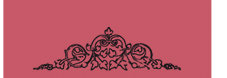
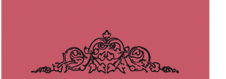
work in progress

Changed region(s): [[0.1239, 0.3333, 0.8053, 0.9487], [0.8982, 0.0, 0.9602, 1.0], [0.0, 0.0, 0.031, 1.0]]

diff --git a/delhaye/skin/frontend/delhaye/default/css/styles.css b/delhaye/skin/frontend/delhaye/default/css/styles.css
@@ -109,8 +109,8 @@ ul,ol         { list-style:none; }
 .main-left { }
 .main-right { }
 .main-top { min-height:194px; background:url(../images/home/top.png) repeat-x ; }
-.main-top-left { width:283px; height:194px; background: url(../images/home/top-left-corner.png); float:left; margin-left:-19px;}
-.main-top-right { width:231px; height:194px; background: url(../images/home/right.png); float:right; margin-right:-5px;}
+.main-top-left { width:175px; height:184px; background: url(../images/home/top-left-corner.png); float:left; margin-left:-13px;}
+.main-top-right { width:226px; height:69px; background: url(../images/home/right.png); float:right; margin-right:-5px;}
 
 .main-content { border:solid 5px red; }
 .main-bottom { height:261px; background:#ffffff url(../images/home/bottom.png) repeat-x ; }
@@ -502,7 +502,7 @@ tr.summary-details-excluded { font-style:italic; }
 /*.header-container { border-top:5px solid #0d2131; border-bottom:1px solid #415966; background:url(../images/bkg_header.jpg) 50% 0 repeat; }*/
 .header-container { border:0px; padding:0px; background:url(../images/home/header-right.png) repeat-y right; }
 .header { }
-.header .header-right { width:225px; padding-top:80px; background:url(../images/home/header-right-decoration.png) no-repeat; float:right; }
+.header .header-right { width:226px; padding-top:80px; background:url(../images/home/header-right-decoration.png) no-repeat; float:right; }
 .header .logo { float:left; margin:3px 0 10px 12px; text-decoration:none !important; }
 .header .logo strong { position:absolute; top:-999em; left:-999em; width:0; height:0; font-size:0; line-height:0; text-indent:-999em; overflow:hidden; }
 .header h1.logo { margin:0; }
